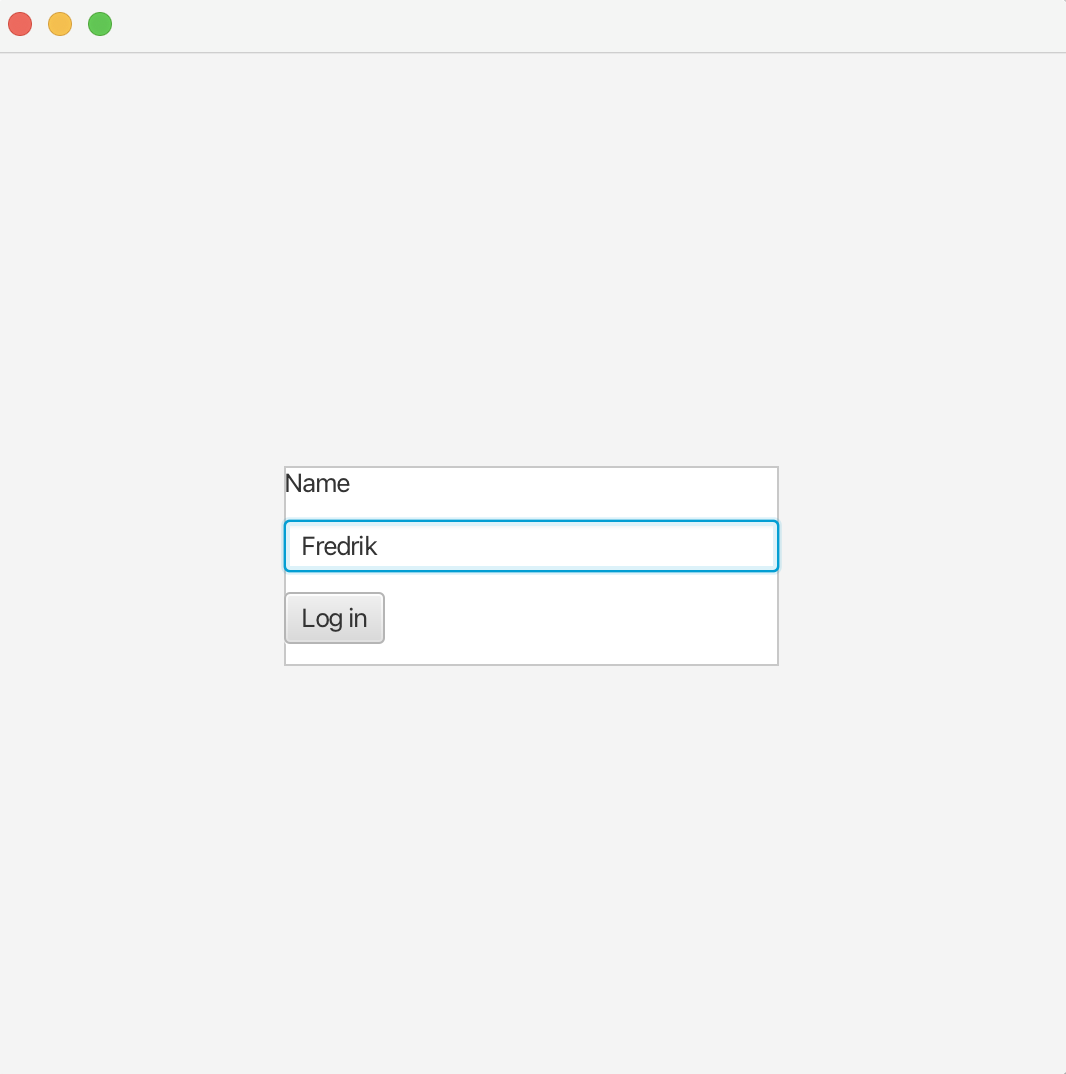
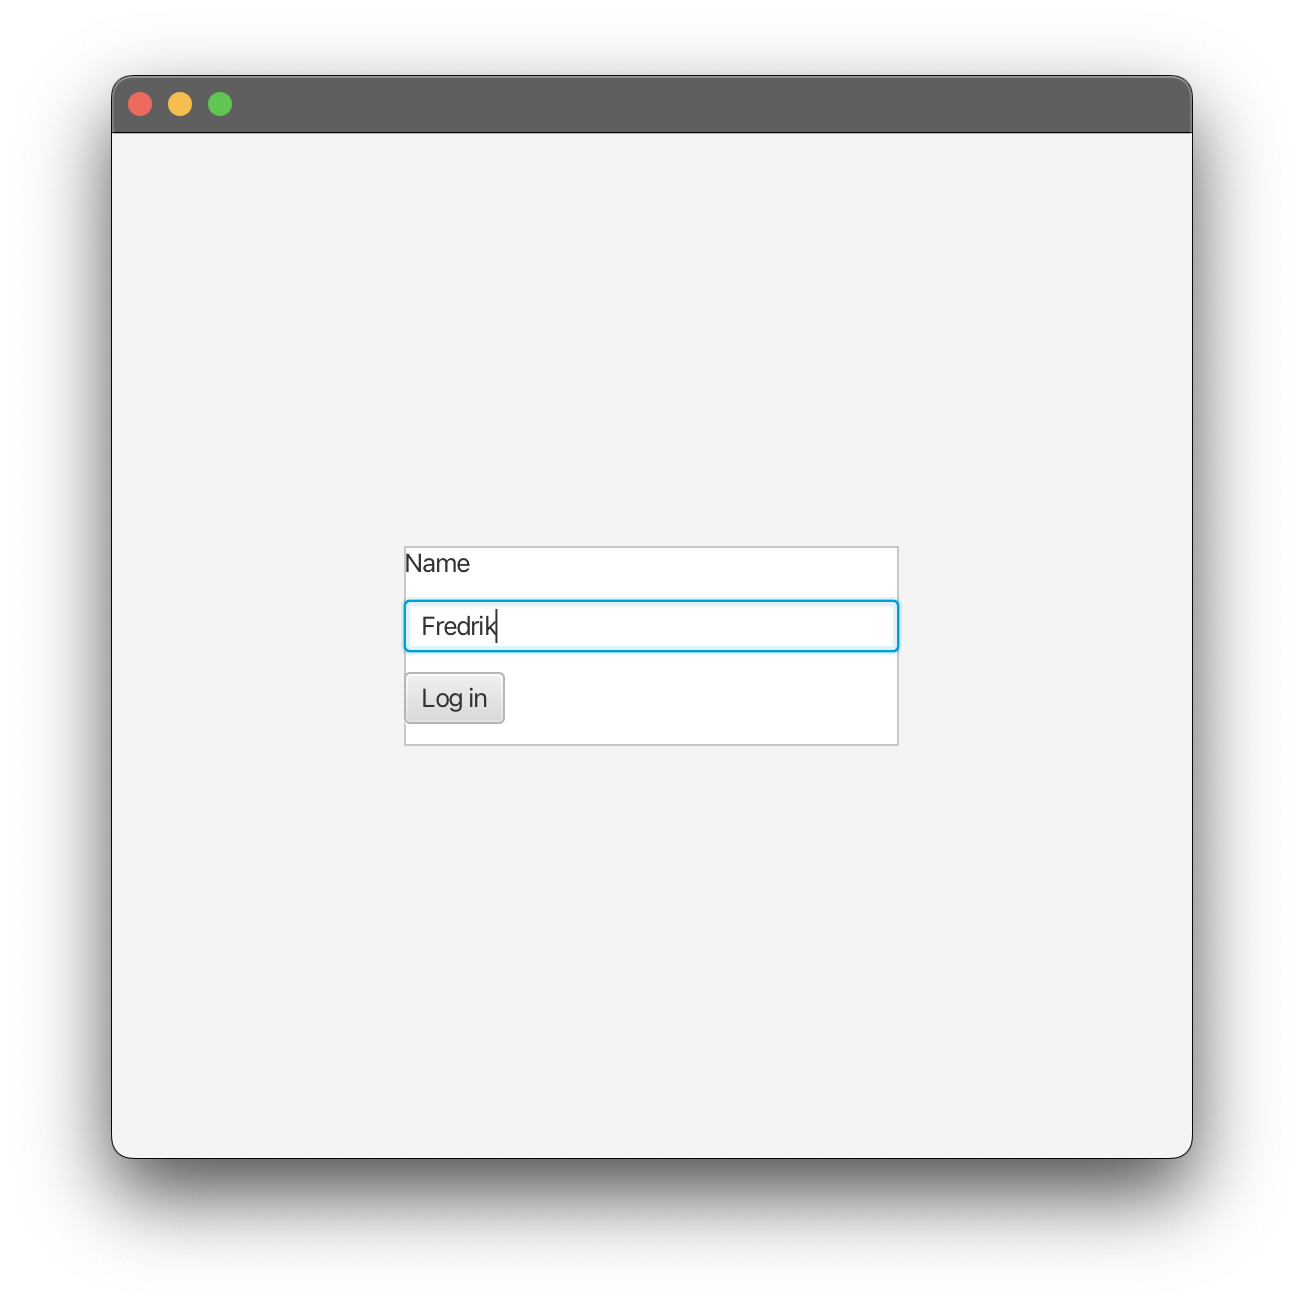
Doc: Skrevet readme for fxui-modul og lagt inn bilder

Changed region(s): [[0.0, 0.0, 0.9597, 0.9525], [0.2477, 0.3994, 0.743, 0.6145]]

diff --git a/docs/ReadMeFxui.md b/docs/ReadMeFxui.md
@@ -1,0 +1,22 @@
+# README - Persistence
+
+## Introduksjon
+* Fxui-modulen står for det visuelle grensesnittet til applikasjonen og benytter både Core- og persistance-modulene
+* "Mainwindow.fxml" som ligger i "bookapp/fxui/src/main/resources"-mappen åpnes og leses ved hjelp av JavaFx, og kontrolleres ved hjelp av AppController-klassen
+
+## Teknologier brukt
+* JavaFX
+	* JavaFX er del av Java Development Kit, og er et bibliotek som lar deg opprette grafiske grensesnitt for både desktop og mobil med java
+* Scene Builder
+  * Scene Buider er applikasjon som gjør det lettere å lage det grafiske grensesnittet til en javafx-app. Det er brukt til å skrive "Mainwindow.fxml", men kreves ikke for å kjøre Bookapp.
+
+## Funksjonalitet
+* Modulen kjøres fra BookApp-klassen som leser og åpner "Mainwindow.fxml" som et grafisk grensesnitt.
+  * ```start(Stage stage)```
+    * Finner "Mainwindow.fxml" i resources-mappen og åpner det med javafx
+* AppController-klassen er knyttet til Mainwindow.fxml og er ansvarlig for all funksjonalitet i brukergrensesnittet. Den inneholder referanser til alle objektetene Det meste av logikken ligger i Core-modulen, men kontrolleren knytter bruker-input til funksjoner i core- og persistance-modulene og passer på at det grafiske gejnspeiler det som skjer i kjernelogikken.
+
+## Skjermbilder
+![Viser innloggingsside](/docs/Bilder/Innlogging.png)
+![Viser hovedside før review](/docs/Bilder/PreReviewR2.png)
+![Viser hovedside etter review](/docs/Bilder/PostReviewR2.png)

diff --git a/docs/ReadMeCore.md b/docs/ReadMeCore.md
@@ -1,10 +1,10 @@
 # README - Persistence
 
 ## Introduksjon
-* Hensikten til Core modulen er å håndtere kjernelogikken i appen.
+* Core modulen består av tre klasser, Book, BookReview og User, og er å håndtere kjernelogikken i appen. 
 
 ## Teknologier brukt
-* 
+* Java
 
 ## Funksjonalitet
 * Book-klassen holder informasjon om en bok og referanser til BookReview-objekter. Den representerer en bok med vurderinger og har en enkel ```toString()```-funksjon som brukes i grensesnittet.
